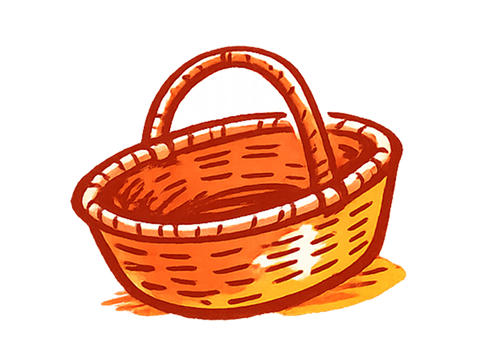
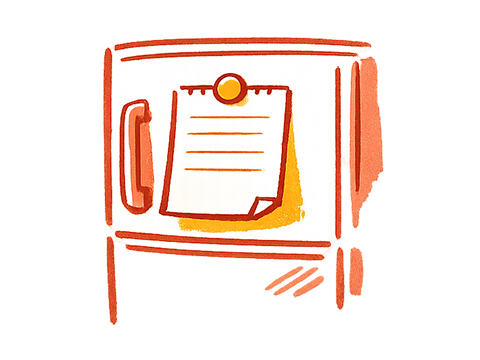
Add SidebarItem component and integrate into sidebar
Introduce Ui::SidebarItemComponent (Ruby + template) and a design-system preview, and register it in DesignSystemRegistry. Replace several hand-rolled sidebar rows in shared/_app_sidebar.html.erb with the new component and adapt markup to use group-data-[collapsed=true] utilities for collapsed/rail behavior. Update Ui::ModuleMedallionComponent to accept nil/unknown modules and render a neutral tint fallback (preserving shape/geometry) and add a private helper. Remove obsolete labelTargets usage from sidebar_controller.js. Add/adjust tests for module medallion, new sidebar item component, and update conversation controller tests to assert the accessible unread marker (sr-only) instead of a visual badge. Also include updated preview and image assets.

diff --git a/app/javascript/controllers/sidebar_controller.js b/app/javascript/controllers/sidebar_controller.js
@@ -1,7 +1,7 @@
 import { Controller } from "@hotwired/stimulus"
 
 export default class extends Controller {
-  static targets = [ "panel", "panelToggle", "label", "group", "groupPanel", "groupChevron", "item" ]
+  static targets = [ "panel", "panelToggle", "group", "groupPanel", "groupChevron", "item" ]
   static classes = [ "collapsed", "expanded" ]
 
   connect() {
@@ -21,7 +21,6 @@ export default class extends Controller {
     this.panelTarget.classList.remove(this.expandedClass)
     this.panelTarget.classList.add(this.collapsedClass)
     this.panelTarget.dataset.collapsed = "true"
-    this.labelTargets.forEach((el) => el.classList.add("hidden"))
     if (this.hasPanelToggleTarget) this.panelToggleTarget.setAttribute("aria-expanded", "false")
     localStorage.setItem("sidebar:collapsed", "true")
   }
@@ -30,7 +29,6 @@ export default class extends Controller {
     this.panelTarget.classList.remove(this.collapsedClass)
     this.panelTarget.classList.add(this.expandedClass)
     delete this.panelTarget.dataset.collapsed
-    this.labelTargets.forEach((el) => el.classList.remove("hidden"))
     if (this.hasPanelToggleTarget) this.panelToggleTarget.setAttribute("aria-expanded", "true")
     localStorage.setItem("sidebar:collapsed", "false")
   }

diff --git a/test/components/ui/sidebar_item_component_test.rb b/test/components/ui/sidebar_item_component_test.rb
@@ -1,0 +1,55 @@
+require "test_helper"
+
+class Ui::SidebarItemComponentTest < ViewComponent::TestCase
+  test "renders a link with icon medallion and label" do
+    render_inline(Ui::SidebarItemComponent.new(icon: "house", label: "Accueil", href: "/"))
+
+    assert_selector "a[href='/'][title='Accueil']"
+    assert_selector "span.bg-surface-inset.text-secondary"
+    assert_selector "span.min-w-0.flex-1.truncate", text: "Accueil"
+  end
+
+  test "renders active state with inset background, semibold label and aria-current" do
+    render_inline(Ui::SidebarItemComponent.new(icon: "house", label: "Accueil", href: "/", active: true))
+
+    assert_selector "a[href='/'][aria-current='page'].bg-surface-inset"
+    assert_selector "span.font-semibold", text: "Accueil"
+  end
+
+  test "omits aria-current and uses regular weight when not active" do
+    render_inline(Ui::SidebarItemComponent.new(icon: "house", label: "Accueil", href: "/"))
+
+    refute_selector "[aria-current]"
+    assert_selector "span.font-medium", text: "Accueil"
+  end
+
+  test "tints the medallion when a known module is given" do
+    render_inline(Ui::SidebarItemComponent.new(icon: "refrigerator", label: "Frigo", href: "/fridge", mod: :fridge))
+
+    assert_selector "span.bg-module-fridge\\/12.text-module-fridge"
+  end
+
+  test "collapsed forces the icon-rail recipe: label hidden, row centered, title kept" do
+    render_inline(Ui::SidebarItemComponent.new(icon: "house", label: "Accueil", href: "/", collapsed: true))
+
+    assert_selector "a[title='Accueil'].justify-center"
+    assert_selector "span.hidden", text: "Accueil"
+    assert_selector "span.bg-surface-inset.text-secondary"
+  end
+
+  test "hides trailing content when collapsed" do
+    render_inline(Ui::SidebarItemComponent.new(icon: "message-circle", label: "Messages", href: "/conversations", collapsed: true)) do |item|
+      item.with_trailing { "<span>2</span>".html_safe }
+    end
+
+    assert_selector "div.hidden", text: "2"
+  end
+
+  test "shows trailing content when expanded" do
+    render_inline(Ui::SidebarItemComponent.new(icon: "message-circle", label: "Messages", href: "/conversations")) do |item|
+      item.with_trailing { "<span>2</span>".html_safe }
+    end
+
+    assert_selector "div:not(.hidden)", text: "2"
+  end
+end

diff --git a/app/models/design_system_registry.rb b/app/models/design_system_registry.rb
@@ -167,6 +167,12 @@ module DesignSystemRegistry
       description: "Colonne de navigation repliable, sert de base à la nav de ce site de doc."),
     Entry.new(slug: "item", name: "Item", category: CATEGORIES[2], component_class: Ui::ItemComponent,
       description: "Ligne générique leading/title/description/trailing — sert de brique aux listes (contacts, menus, sidebar)."),
+    Entry.new(slug: "sidebar-item", name: "Sidebar Item", category: CATEGORIES[2], component_class: Ui::SidebarItemComponent,
+      description: "Ligne de navigation de la sidebar : médaillon + libellé + accent de module optionnel, gère elle-même son repli en rail 64px.",
+      usage: "Réservé aux lignes de navigation (sidebar, rail repliable) ; pour toute liste non-navigationnelle (contacts, résultats de recherche, réglages), Item reste le bon composant — c'est la raison d'être de la séparation entre les deux.\n" \
+        "Le repli visible (icône seule, rail à 64px) est piloté en CSS depuis le conteneur parent via data-collapsed et les utilitaires group-data-[collapsed=true]: — la prop collapsed: ne sert qu'au rendu statique isolé (ce catalogue, les tests), jamais au repli live réel.\n" \
+        "mod: absent ou inconnu bascule sur un médaillon neutre (bg-surface-inset), même forme — jamais une icône nue, pour ne pas casser la géométrie de la ligne.",
+      related: %w[item module-medallion sidebar]),
     Entry.new(slug: "carousel", name: "Carousel", category: CATEGORIES[2], component_class: Ui::CarouselComponent,
       description: "Défilement horizontal d'un jeu de diapositives."),
 

diff --git a/app/components/ui/module_medallion_component.rb b/app/components/ui/module_medallion_component.rb
@@ -9,11 +9,12 @@ module Ui
     SIZES = { sm: "size-8", default: "size-11", lg: "size-16" }.freeze
     GLYPH_SIZES = { sm: "size-3.5", default: "size-5", lg: "size-7" }.freeze
 
-    # mod: one of MODULES — named `mod`, not `module`, since the latter is a
+    # mod: one of MODULES, or nil/unknown for callers with no module mapping
+    # yet (e.g. sidebar rows) — those render the same shape with a neutral
+    # surface-inset tint instead of raising, so geometry never breaks while a
+    # mapping is undecided. Named `mod`, not `module`, since the latter is a
     # Ruby keyword and can't be referenced as a bare local inside the method body.
-    def initialize(mod:, icon:, size: :default, class_name: nil)
-      raise ArgumentError, "unknown module: #{mod.inspect}" unless MODULES.include?(mod)
-
+    def initialize(mod: nil, icon:, size: :default, class_name: nil)
       @mod = mod
       @icon = icon
       @size = size
@@ -23,11 +24,17 @@ module Ui
     def call
       tag.span class: cn(
         "inline-flex shrink-0 items-center justify-center rounded-full",
-        "bg-module-#{@mod}/12 text-module-#{@mod}",
+        known_module? ? "bg-module-#{@mod}/12 text-module-#{@mod}" : "bg-surface-inset text-secondary",
         SIZES.fetch(@size), @class_name
       ) do
         lucide_icon_mask(@icon, css_class: GLYPH_SIZES.fetch(@size))
       end
     end
+
+    private
+
+      def known_module?
+        MODULES.include?(@mod)
+      end
   end
 end

diff --git a/app/components/ui/sidebar_item_component.rb b/app/components/ui/sidebar_item_component.rb
@@ -1,0 +1,23 @@
+module Ui
+  # A sidebar navigation row — owns both the expanded and collapsed (icon-rail)
+  # recipes, so the 64px rail fallback in _app_sidebar.html.erb doesn't need to
+  # be reimplemented by hand. The collapsed look is driven by the ancestor
+  # sidebar's `data-collapsed` attribute via `group-data-[collapsed=true]:`
+  # utilities (see sidebar_controller.js), so a single server render adapts
+  # live as the user toggles the rail — no re-render needed.
+  #
+  # `collapsed:` does not drive that live behavior; it forces the collapsed
+  # recipe statically, for previews and tests rendered outside a live sidebar.
+  class SidebarItemComponent < ApplicationComponent
+    renders_one :trailing
+
+    def initialize(icon:, label:, href: nil, active: false, mod: nil, collapsed: false)
+      @icon = icon
+      @label = label
+      @href = href
+      @active = active
+      @mod = mod
+      @collapsed = collapsed
+    end
+  end
+end

diff --git a/test/controllers/conversations_controller_test.rb b/test/controllers/conversations_controller_test.rb
@@ -162,13 +162,13 @@ class ConversationsControllerTest < ActionDispatch::IntegrationTest
 
   test "the sidebar marks Messages as unread when the household has an unread conversation" do
     get baby_profiles_path
-    assert_select "span.absolute.-left-0\\.5.rounded-full.bg-button-primary"
+    assert_select "span.sr-only", text: I18n.t("sidebar.unread")
   end
 
   test "the sidebar does not mark Messages as unread once the conversation has been read" do
     conversations(:alpha_chat).conversation_participants.find_by(user: users(:one)).update!(last_read_at: Time.current)
     get baby_profiles_path
-    assert_select "span.absolute.-left-0\\.5.rounded-full.bg-button-primary", count: 0
+    assert_select "span.sr-only", text: I18n.t("sidebar.unread"), count: 0
   end
 
   test "conversation show links back to its subject" do

diff --git a/test/components/ui/module_medallion_component_test.rb b/test/components/ui/module_medallion_component_test.rb
@@ -14,9 +14,16 @@ class Ui::ModuleMedallionComponentTest < ViewComponent::TestCase
     assert_selector "span.size-16"
   end
 
-  test "raises for an unknown module" do
-    assert_raises(ArgumentError) do
-      Ui::ModuleMedallionComponent.new(mod: :nonexistent, icon: "house")
-    end
+  test "falls back to a neutral tint for an unknown module" do
+    render_inline(Ui::ModuleMedallionComponent.new(mod: :nonexistent, icon: "house"))
+
+    assert_selector "span.bg-surface-inset.text-secondary"
+    refute_selector "[class*='bg-module-'], [class*='text-module-']"
+  end
+
+  test "falls back to a neutral tint when no module is given" do
+    render_inline(Ui::ModuleMedallionComponent.new(icon: "house"))
+
+    assert_selector "span.bg-surface-inset.text-secondary"
   end
 end
